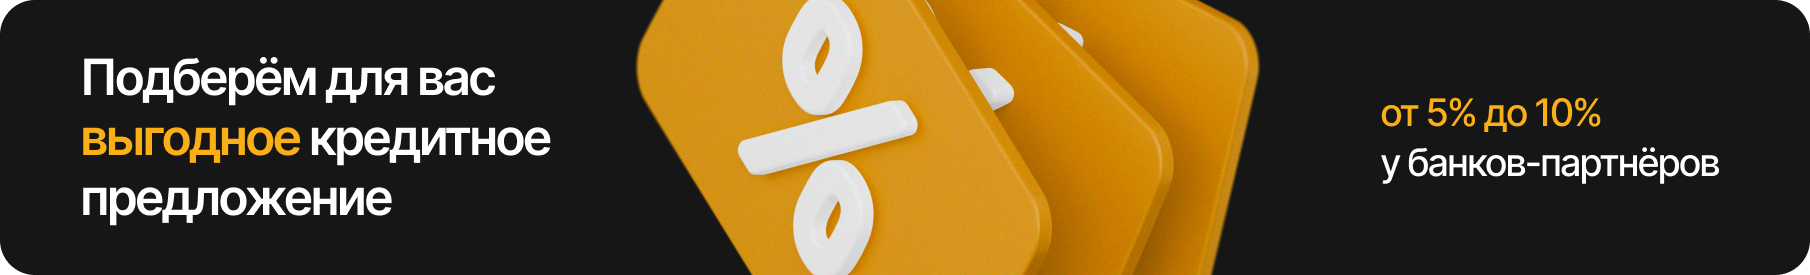
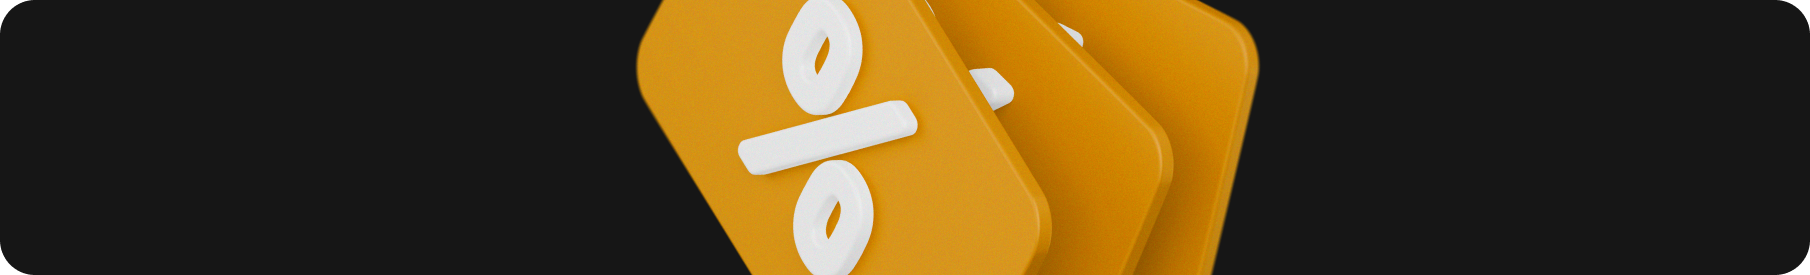
feat: add CreditCard component

diff --git a/src/app/pages/services/apartments/page.tsx b/src/app/pages/services/apartments/page.tsx
@@ -1,7 +1,6 @@
 'use client'
 import React from 'react'
 import Image from 'next/image'
-import Link from 'next/link'
 
 import TapeSection from '@/components/shared/Tape Section/TapeSection'
 import FavoriteBusiness from '@/components/widgets/Favorite Business/FavoriteBusiness'
@@ -21,9 +20,9 @@ import RenovationHeader from '@/components/widgets/Renovation Header/RenovationH
 import Crumb from '@/components/shared/Crumb/Crumb'
 import SelfRenovation from '@/components/widgets/Self Renovation/SelfRenovation'
 import Comparison from '@/components/widgets/Comparison/Comparison'
+import CreditCard from '@/components/widgets/Credit Card/CreditCard'
 import SelfRenovationGallery from '@/components/widgets/Self Renovation Gallery/SelfRenovationGallery'
 
-import creditImg from '../../../../../public/assets/img/creditImg.png'
 import plannerImg1 from '../../../../../public/assets/img/planner img/plannerImg1.png'
 import pseudoVid from '../../../../../public/assets/img/pseudo videos/pseudoVid.png'
 import renovationHeaderBackground from '../../../../../public/assets/img/headBannerRenovationService.png'
@@ -115,9 +114,7 @@ const RenovationService = () => {
 
       <FavoriteBusiness />
 
-      <Link href="" className="w-full">
-        <Image alt="credit" src={creditImg as unknown as string} className="w-full" />
-      </Link>
+      <CreditCard />
 
       <GalleryWithFeedback />
 

diff --git a/src/app/page.tsx b/src/app/page.tsx
@@ -25,6 +25,7 @@ import plannerImg1 from '../../public/assets/img/planner img/plannerImg1.png'
 import pseudoVid from '../../public/assets/img/pseudo videos/pseudoVid.png'
 import Header from '@/components/widgets/Global Header/GlobalHeader'
 import Footer from '@/components/widgets/Global Footer/GlobalFooter'
+import CreditCard from '@/components/widgets/Credit Card/CreditCard'
 
 export default function Home() {
   return (
@@ -81,10 +82,11 @@ export default function Home() {
             />
           </section>
         </section>
+        <section className="flex items-center">
+          <FavoriteBusiness />
+        </section>
 
-        <FavoriteBusiness />
-
-        <Image src={creditCard as unknown as string} alt="credit" quality={100} />
+        <CreditCard />
 
         <RiskSlide button_text="Рассчитать стоимость" background={riskBg as unknown as string} />
 

diff --git a/src/styles/classes.css b/src/styles/classes.css
@@ -3,23 +3,23 @@
 }
 
 .headingStruct {
-  @apply font-semibold leading-tight tracking-tighter text-color-dark;
+  @apply font-semibold leading-tight tracking-tighter;
 }
 
 .heading {
-  @apply text-5xl font-semibold leading-tight tracking-tighter text-color-dark;
+  @apply text-5xl font-semibold leading-tight tracking-tighter;
 }
 
 .heading6 {
-  @apply text-6xl font-semibold leading-tight tracking-tighter text-color-dark;
+  @apply text-6xl font-semibold leading-tight tracking-tighter;
 }
 
 .heading2 {
-  @apply text-3xl font-semibold leading-tight tracking-tighter text-color-dark;
+  @apply text-3xl font-semibold leading-tight tracking-tighter;
 }
 
 .shiftedHeading4 {
-  @apply pl-7 text-2xl font-semibold leading-tight tracking-tighter text-color-dark;
+  @apply pl-7 text-2xl font-semibold leading-tight tracking-tighter;
 }
 
 .label {

diff --git a/src/styles/classes.scss b/src/styles/classes.scss
@@ -3,23 +3,23 @@
 }
 
 .headingStruct {
-  @apply font-semibold leading-tight tracking-tighter text-color-dark;
+  @apply font-semibold leading-tight tracking-tighter;
 }
 
 .heading {
-  @apply text-5xl font-semibold leading-tight tracking-tighter text-color-dark;
+  @apply text-5xl font-semibold leading-tight tracking-tighter;
 }
 
 .heading6 {
-  @apply text-6xl font-semibold leading-tight tracking-tighter text-color-dark;
+  @apply text-6xl font-semibold leading-tight tracking-tighter;
 }
 
 .heading2 {
-  @apply text-3xl font-semibold leading-tight tracking-tighter text-color-dark;
+  @apply text-3xl font-semibold leading-tight tracking-tighter;
 }
 
 .shiftedHeading4 {
-  @apply pl-7 text-2xl font-semibold leading-tight tracking-tighter text-color-dark;
+  @apply pl-7 text-2xl font-semibold leading-tight tracking-tighter;
 }
 
 .label {

diff --git a/src/components/widgets/Credit Card/CreditCard.tsx b/src/components/widgets/Credit Card/CreditCard.tsx
@@ -1,0 +1,21 @@
+import React from 'react'
+import style from './creditCard.module.scss'
+
+function CreditCard() {
+  return (
+    <section
+      className={`${style.bg} flex w-full flex-row items-center justify-between rounded-3xl px-12 py-8`}
+    >
+      <h3 className="headingStruct w-96 text-4xl text-white">
+        Подберём для вас <span className="orange-bold">выгодное</span> кредитное предложение
+      </h3>
+
+      <h4 className="w-80 text-3xl font-medium text-white">
+        <span className="orange-bold">от 5% до 10%</span>
+        <br />у банков-партнёров
+      </h4>
+    </section>
+  )
+}
+
+export default CreditCard

diff --git a/src/components/widgets/Credit Card/creditCard.module.css b/src/components/widgets/Credit Card/creditCard.module.css
@@ -1,0 +1,7 @@
+.bg {
+  background-image: url('../../../../public/assets/img/creditImg.png');
+  background-position: center;
+  background-size: cover;
+}
+
+/*# sourceMappingURL=creditCard.module.css.map */

diff --git a/src/components/widgets/Credit Card/creditCard.module.scss b/src/components/widgets/Credit Card/creditCard.module.scss
@@ -1,0 +1,5 @@
+.bg {
+  background-image: url('../../../../public/assets/img/creditImg.png');
+  background-position: center;
+  background-size: cover;
+}
